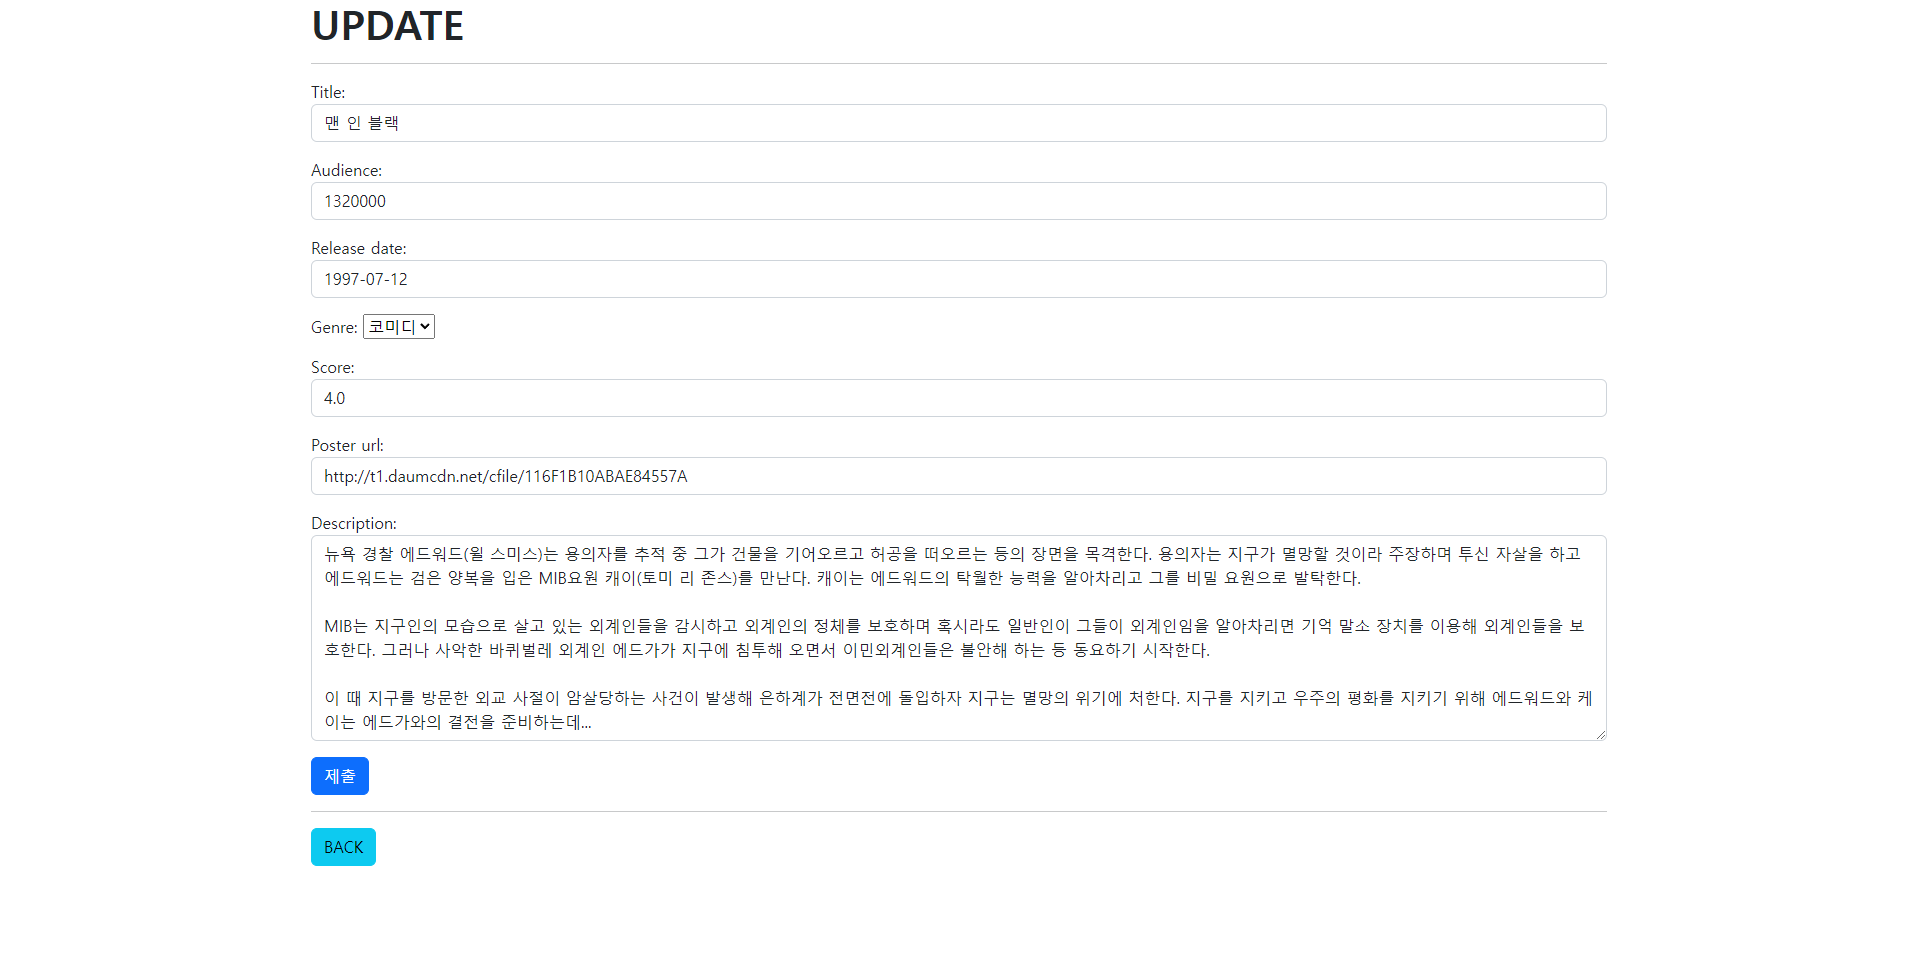
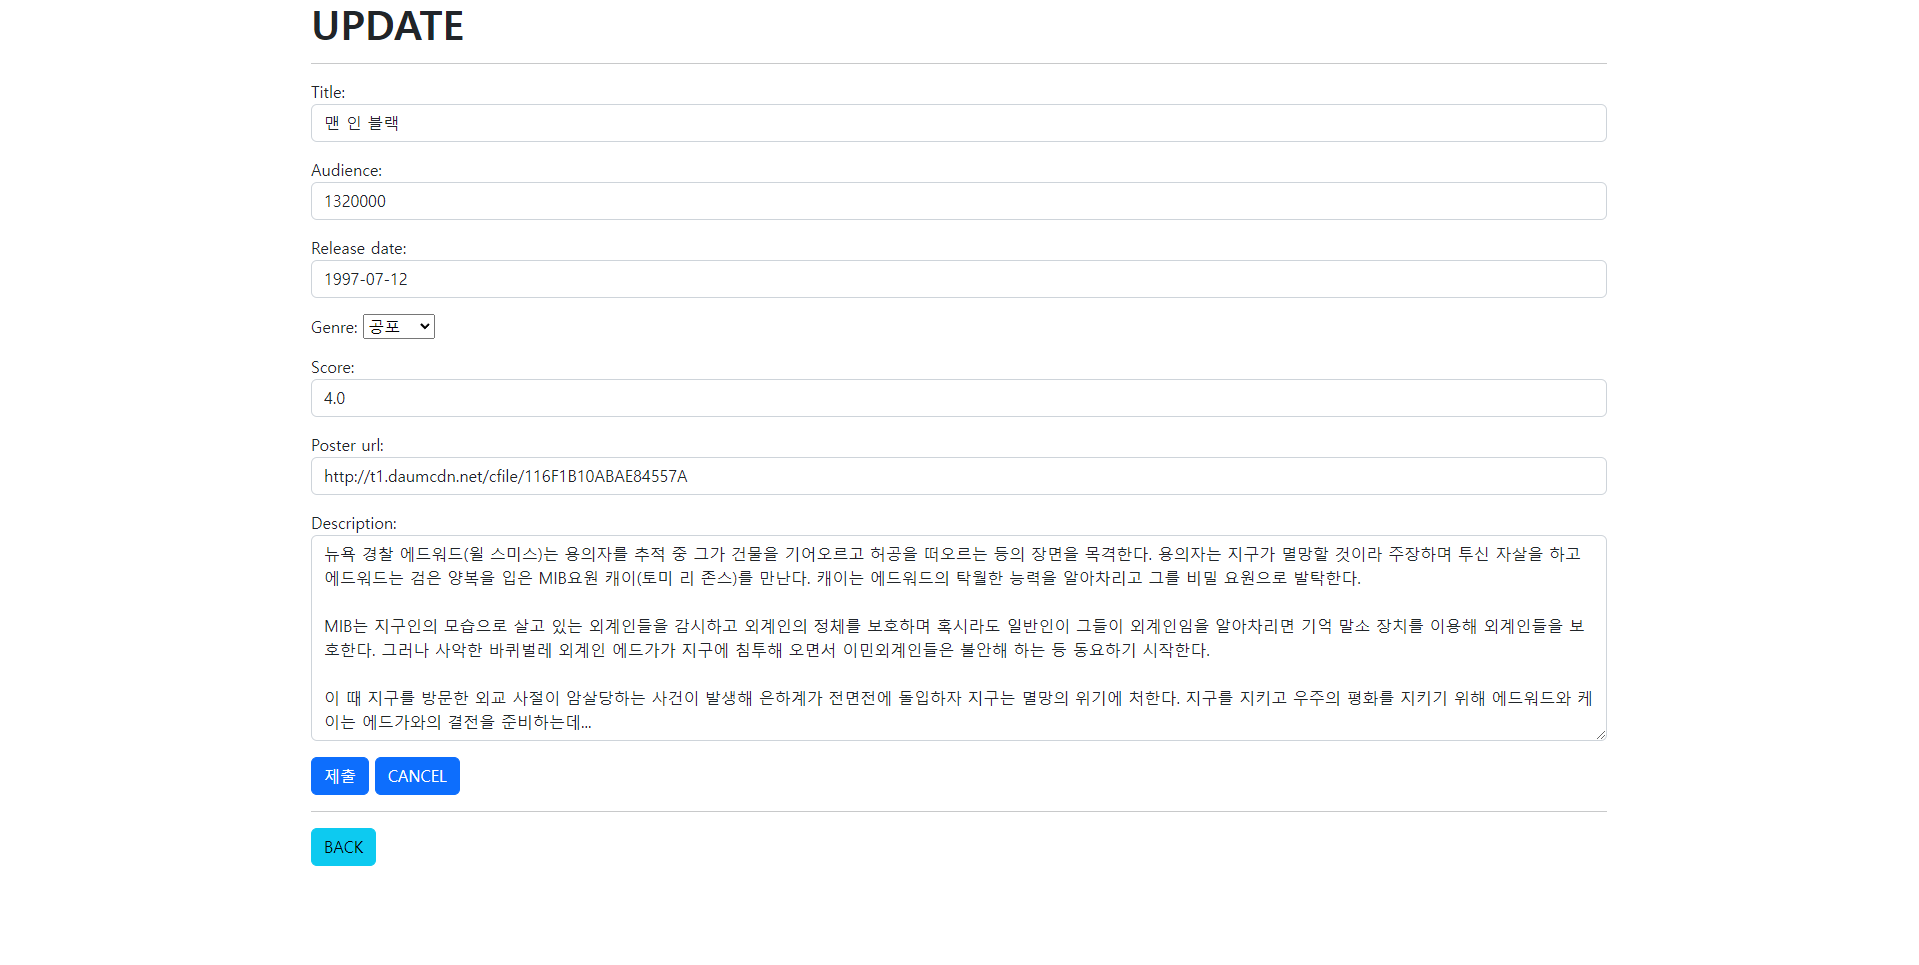
221007 TIL

diff --git a/AlgorithmProblemSolving/04_백준/Silver/11660_구간합_구하기_5.py b/AlgorithmProblemSolving/04_백준/Silver/11660_구간합_구하기_5.py
@@ -1,0 +1,46 @@
+'''
+구간합 구하기 5
+https://www.acmicpc.net/problem/11660
+백준 실버1 11660
+N×N개의 수가 N×N 크기의 표에 채워져 있다. (x1, y1)부터 (x2, y2)까지 합을 구하는 프로그램을 작성하시오. (x, y)는 x행 y열을 의미한다.
+
+예를 들어, N = 4이고, 표가 아래와 같이 채워져 있는 경우를 살펴보자.
+
+1	2	3	4
+2	3	4	5
+3	4	5	6
+4	5	6	7
+여기서 (2, 2)부터 (3, 4)까지 합을 구하면 3+4+5+4+5+6 = 27이고, (4, 4)부터 (4, 4)까지 합을 구하면 7이다.
+
+표에 채워져 있는 수와 합을 구하는 연산이 주어졌을 때, 이를 처리하는 프로그램을 작성하시오.
+'''
+
+
+import sys
+def input():
+    return sys.stdin.readline().rstrip()
+
+
+N, M = map(int, input().split())
+arr = [list(map(int, input().split())) for _ in range(N)]
+sumarr = [[0]*(N+1) for _ in range(N+1)]
+for i in range(1, N+1):
+    for j in range(1, N+1):
+        sumarr[i][j] = sumarr[i][j-1] + sumarr[i-1][j] - sumarr[i-1][j-1] + arr[i-1][j-1]
+'''
+해당 좌표까지의 숫자 합
+
+0   0   0   0   0
+0   1	3	6	10
+0   3	8	15	23
+0   6	17	29	41
+0   10	26	44	63
+'''
+clst = [list(map(int, input().split())) for _ in range(M)]
+ans = []
+for c in clst:
+    i1, j1, i2, j2 = c
+    ans.append(sumarr[i2][j2] - sumarr[i2][j1-1] - sumarr[i1-1][j2] + sumarr[i1-1][j1-1])
+
+for a in ans:
+    print(a)

diff --git a/pjt_review/221007_pjt05.md b/pjt_review/221007_pjt05.md
@@ -176,6 +176,32 @@ class MovieForm(forms.ModelForm):
 
 ---
 
+
+# templates
+#### 💡 새로 구현한 것들
+* reset 버튼을 추가하였다.
+
+```html
+# movies/templpates/movies/update.html
+{% extends 'base.html' %}
+{% block content %}
+  <h1><b>UPDATE</b></h1>
+  <hr>
+
+  <form action="{% url 'movies:update' movie.pk %}" method="POST">
+    {% csrf_token %}
+    {{ form.as_p }}
+    <input type="submit" class="btn btn-primary">
+    <input type="reset" class="btn btn-primary" value="CANCEL">
+  </form>
+  <hr>
+  <a href="{% url 'movies:index' %}" class="btn btn-info">BACK</a>
+{% endblock content %}
+
+```
+---
+
+
 ### 느낀 점
 * CRUD 구현에 제법 익숙해져서 뿌듯하다.
 * widget 구현시 공식 문서를 활용하였다. 생각보다 더 어려움이 있었다... 익숙해질 때까지 자주 써야할 것 같다.
